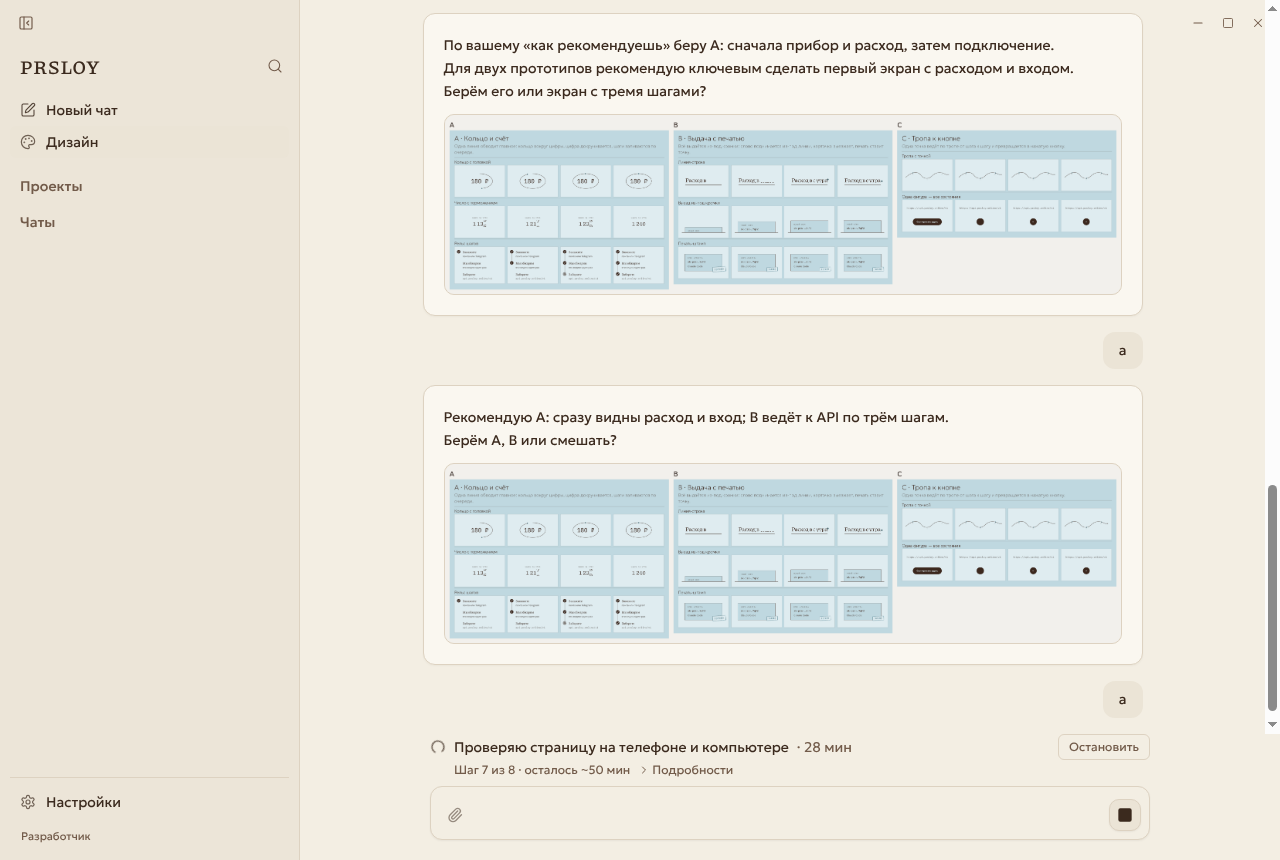
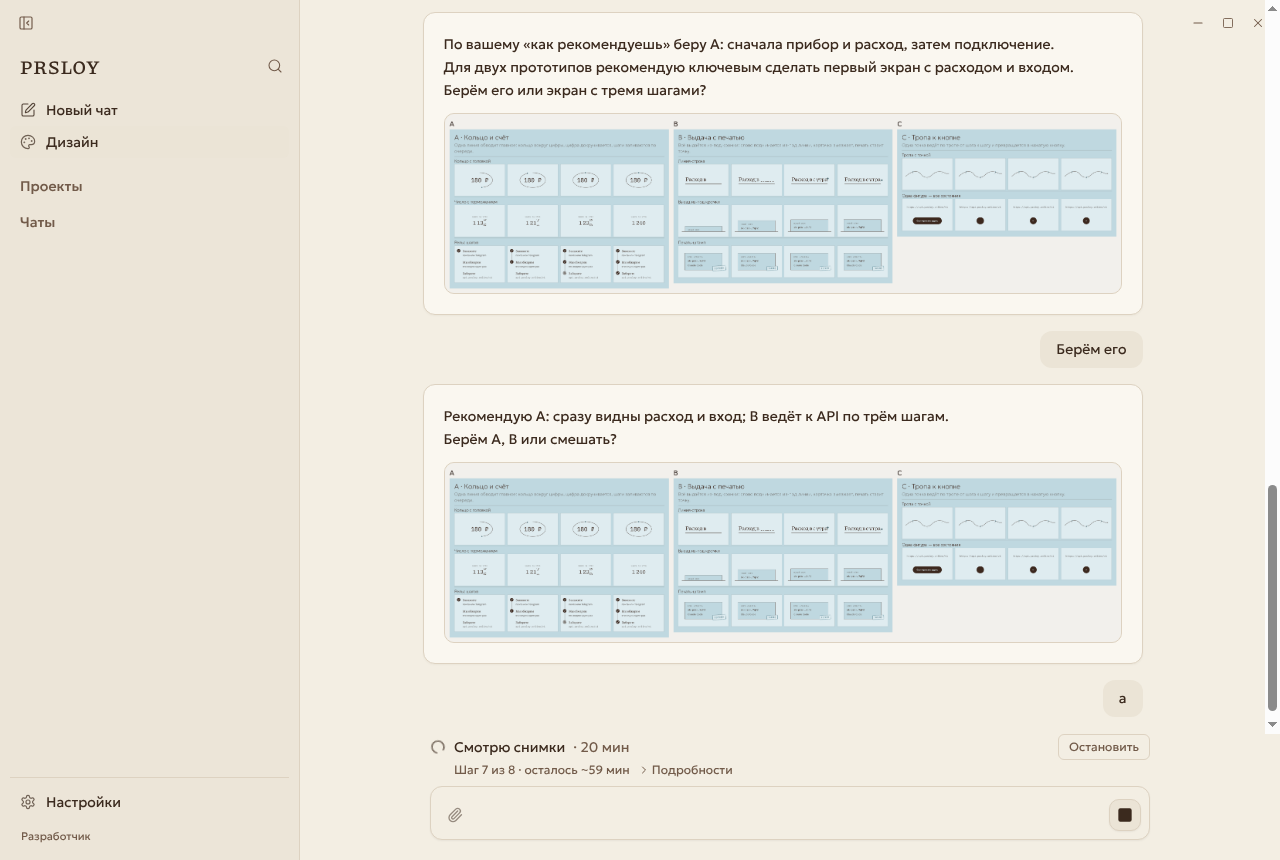
desktop/ui: run.py's answer options and action words in «Дизайн»; word keys sent whole
- Word options («Да», «Берём его», «Смешать») show one label and send their key as is;
  lettered options drop the letter repeated in the label.
- main: option keys were cut to 8 characters («Берём его» went out as «Берём ег»); now 80.
- Replay recomputes options and doing with run.py's own options_of / doing_of.

Claude-Session: https://claude.ai/code/session_01T1MXX92ZtwWirroZLYeuiB

diff --git a/app/apps/desktop/e2e/design-replay.spec.ts b/app/apps/desktop/e2e/design-replay.spec.ts
@@ -45,6 +45,8 @@ async function launch(replay: Replay = {}): Promise<Launched> {
   const harness = join(bundle, "playbooks", "site", "harness");
   mkdirSync(harness, { recursive: true });
   copyFileSync(join(FIXTURE, "replay_run.py"), join(harness, "run.py"));
+  // the real run.py, for its options_of / doing_of (the fixture predates both)
+  copyFileSync(join(HARNESS, "run.py"), join(harness, "real_run.py"));
   // main passes run.py an allowlisted env, so the replay reads its settings from a file
   writeFileSync(join(harness, "replay.json"), JSON.stringify(replay));
   cpSync(join(FIXTURE, "fixtures"), join(harness, "fixtures"), { recursive: true });
@@ -123,15 +125,27 @@ test("the real run, turn by turn, as the owner sees it", async () => {
     for (const [i, answer] of ANSWERS.entries()) {
       const turn = i + 1;
       const owners = await page.getByTestId("design-owner").count();
-      await say(page, answer);
+      if (turn === 6) {
+        // run.py's word option: the button sends its key as the answer, nothing else
+        await page
+          .getByTestId("design-owner")
+          .last()
+          .getByRole("button", { name: /^Берём его/u })
+          .click();
+        await expect(page.getByTestId("design-user").last()).toHaveText("Берём его");
+      } else {
+        await say(page, answer);
+      }
       await expect(page.getByTestId("design-progress")).toBeVisible({ timeout: 30_000 });
       if (turn === 7) {
         // The long step: 80 minutes, 321 tool calls. One plain line, the step and time left;
         // the raw calls only under «Подробности».
         const step = page.getByTestId("design-progress-step");
-        await expect(step).toHaveText("Проверяю страницу на телефоне и компьютере", {
+        await expect(page.getByTestId("design-progress-meta")).toContainText("Шаг 7 из 8", {
           timeout: 120_000,
         });
+        // run.py's own words for the action, or the step's: plain Russian, never a command
+        await expect(step).toHaveText(/^[А-ЯЁ][а-яё]+/u);
         await page.waitForTimeout(SHOTS ? 20_000 : 2_000);
         const meta = page.getByTestId("design-progress-meta");
         await expect(meta).toContainText("Шаг 7 из 8");
@@ -155,6 +169,14 @@ test("the real run, turn by turn, as the owner sees it", async () => {
         await expect(page.getByTestId("design-owner")).toHaveCount(owners + 1, {
           timeout: 300_000,
         });
+      }
+      if (turn === 3) {
+        // «Всё верно, можно дальше?» comes with run.py's own answer buttons
+        const card = page.getByTestId("design-owner").last();
+        await expect(card.getByTestId("design-option-да")).toContainText("Да");
+        await expect(card.getByTestId("design-option-да")).toContainText("рекомендую");
+        await expect(card.getByTestId("design-option-нет")).toHaveText("Нет, поправить");
+        await expect(card.getByTestId("design-recommend")).toBeVisible();
       }
       await shot(page, `replay-turn${turn}-done`);
     }

diff --git a/app/apps/desktop/src/renderer/lib/design-state.ts b/app/apps/desktop/src/renderer/lib/design-state.ts
@@ -273,9 +273,22 @@ export function ownerText(text: string, files: DesignFile[], groups: DesignOptio
 /** The engine's «как рекомендуешь»: closes every open choice with the agent's recommendation. */
 export const RECOMMEND_ANSWER = "как рекомендуешь";
 
+/** A lettered option (Latin A–D or Cyrillic А–Г); run.py's word options («да», «смешать») are not. */
+export function isLetterKey(key: string): boolean {
+  return /^[A-DА-Г]$/u.test(key);
+}
+
+/** An option's label without the letter it repeats («A — прибор и три шага» → «прибор и три шага»). */
+export function optionLabel(option: { key: string; label: string }): string {
+  if (!isLetterKey(option.key)) return option.label;
+  const rest = option.label.replace(new RegExp(`^${option.key}\\s*(?:[—–:.)-]\\s*)?`, "u"), "");
+  return rest.trim();
+}
+
 /**
- * Owner's answer to a card. One question → the picked letter with its label; several →
- * "1А 2Б 3А" (run.py reads both). Undefined until every question has a pick.
+ * Owner's answer to a card. One question → the picked letter with its label, or a word option's
+ * own key («да», «экран с тремя шагами»: run.py reads it as is); several → "1А 2Б 3А".
+ * Undefined until every question has a pick.
  */
 export function answerText(
   groups: DesignOptionGroup[],
@@ -284,7 +297,9 @@ export function answerText(
   if (groups.length === 0 || groups.some((_, i) => !picks[i])) return undefined;
   if (groups.length === 1) {
     const key = picks[0]!;
-    const label = groups[0]!.options.find((o) => o.key === key)?.label;
+    if (!isLetterKey(key)) return key;
+    const option = groups[0]!.options.find((o) => o.key === key);
+    const label = option ? optionLabel(option) : "";
     return label ? `${key}. ${label}` : key;
   }
   return groups.map((_, i) => `${i + 1}${picks[i]}`).join(" ");

diff --git a/app/apps/desktop/src/renderer/lib/design-state.test.ts b/app/apps/desktop/src/renderer/lib/design-state.test.ts
@@ -7,6 +7,8 @@ import {
   EMPTY_DESIGN_VIEW,
   elapsedMinutes,
   harnessNow,
+  isLetterKey,
+  optionLabel,
   foldDesign,
   openQuestion,
   ownerText,
@@ -285,5 +287,29 @@ describe("tickerLine", () => {
     expect(tickerLine("bash", "cd /w && python3 -I design-pipeline/tools/gate.py --url x")).toBe(
       "bash gate.py --url x",
     );
+  });
+});
+
+describe("run.py's word options", () => {
+  const opt = (key: string, label: string, recommended = false) => ({ key, label, recommended });
+
+  it("sends a word option's key as is, a letter with its label", () => {
+    const yesNo = [{ q: "", options: [opt("да", "Да", true), opt("нет", "Нет, поправить")] }];
+    expect(answerText(yesNo, { 0: "да" })).toBe("да");
+    const screen = [{ q: "", options: [opt("экран с тремя шагами", "Экран с тремя шагами")] }];
+    expect(answerText(screen, { 0: "экран с тремя шагами" })).toBe("экран с тремя шагами");
+    const abc = [{ q: "", options: [opt("A", "A — прибор и три шага", true), opt("B", "B")] }];
+    expect(answerText(abc, { 0: "A" })).toBe("A. прибор и три шага");
+    expect(answerText(abc, { 0: "B" })).toBe("B");
+  });
+
+  it("does not repeat the letter in a label, keeps word labels whole", () => {
+    expect(optionLabel(opt("A", "A — прибор и три шага"))).toBe("прибор и три шага");
+    expect(optionLabel(opt("B", "B"))).toBe("");
+    expect(optionLabel(opt("А", "Разработчики и команды"))).toBe("Разработчики и команды");
+    expect(optionLabel(opt("смешать", "Смешать"))).toBe("Смешать");
+    expect(isLetterKey("A")).toBe(true);
+    expect(isLetterKey("Б")).toBe(true);
+    expect(isLetterKey("да")).toBe(false);
   });
 });

diff --git a/app/apps/desktop/src/main/design/events.test.ts b/app/apps/desktop/src/main/design/events.test.ts
@@ -146,3 +146,29 @@ describe("fileKind", () => {
     expect(fileKind("notes.md")).toBe("other");
   });
 });
+
+describe("run.py word options", () => {
+  it("keeps a word key whole: the button sends it back as the answer", () => {
+    const ev = parseHarnessLine(
+      JSON.stringify({
+        ev: "owner",
+        text: "Берём его или экран с тремя шагами?",
+        files: [],
+        options: [
+          {
+            q: "",
+            options: [
+              { key: "Берём его", label: "Берём его", recommended: true },
+              { key: "экран с тремя шагами", label: "Экран с тремя шагами" },
+            ],
+          },
+        ],
+      }),
+      () => undefined,
+    );
+    expect(ev && ev.ev === "owner" ? ev.options[0]?.options.map((o) => o.key) : []).toEqual([
+      "Берём его",
+      "экран с тремя шагами",
+    ]);
+  });
+});

diff --git a/app/apps/desktop/src/main/design/events.ts b/app/apps/desktop/src/main/design/events.ts
@@ -12,6 +12,7 @@ import type {
 
 const MAX_TEXT = 4000;
 const MAX_SHORT = 200;
+const MAX_KEY = 80;
 const MAX_FILES = 12;
 const MAX_OPTIONS = 8;
 const MAX_GROUPS = 3;
@@ -43,7 +44,8 @@ function str(value: unknown, max: number): string {
 function option(item: unknown): DesignOption | undefined {
   if (!item || typeof item !== "object") return undefined;
   const rec = item as Record<string, unknown>;
-  const key = str(rec.key, 8).trim();
+  // a letter, or run.py's word key sent back as the answer («да», «экран с тремя шагами»)
+  const key = str(rec.key, MAX_KEY).trim();
   const label = str(rec.label, MAX_SHORT).trim();
   if (!key || !label) return undefined;
   if (rec.recommended !== true) return { key, label };

diff --git a/app/apps/desktop/src/renderer/components/design/DesignPage.tsx b/app/apps/desktop/src/renderer/components/design/DesignPage.tsx
@@ -32,6 +32,8 @@ import {
   EMPTY_DESIGN_VIEW,
   foldDesign,
   harnessNow,
+  isLetterKey,
+  optionLabel,
   openQuestion,
   ownerText,
   RECOMMEND_ANSWER,
@@ -585,8 +587,8 @@ function OwnerChoices({
                     else setPicks(next);
                   }}
                 >
-                  <span className="font-semibold">{o.key}</span>
-                  <span>{o.label}</span>
+                  {isLetterKey(o.key) ? <span className="font-semibold">{o.key}</span> : null}
+                  {optionLabel(o) ? <span>{optionLabel(o)}</span> : null}
                   {o.recommended ? (
                     <span className="text-xs opacity-60">{tr("design.recommended")}</span>
                   ) : null}

diff --git a/app/apps/desktop/e2e/design/replay_run.py b/app/apps/desktop/e2e/design/replay_run.py
@@ -10,6 +10,9 @@ Settings come from replay.json next to this file (main passes run.py an allowlis
   turnEnd   N: a turn stops after N events and waits to be cancelled (a turn in progress)
   silence   true: the events of a stopped turn are 4 minutes old (a long silence)
 Pictures the messages point to are replaced by fixtures/design/landing/01-candidates.png.
+The fixture was recorded before run.py gave every question its `options` and every tool call its
+`doing`: when the real run.py sits next to this file as real_run.py, both are recomputed with its
+own options_of / doing_of, so the app sees what run.py sends today.
 """
 import argparse, json, os, shutil, sys, time
 from pathlib import Path
@@ -20,6 +23,31 @@ PLACEHOLDER = HERE / "fixtures" / "design" / "landing" / "01-candidates.png"
 RECORDED_WS = "/home/user/ab/run/сайт"
 CONFIG = json.loads((HERE / "replay.json").read_text(encoding="utf-8")) if (HERE / "replay.json").exists() else {}
 SPEED = float(CONFIG.get("speed", 120))
+
+
+def load_run_py():
+    path = HERE / "real_run.py"
+    if not path.exists():
+        return None
+    import importlib.util
+    spec = importlib.util.spec_from_file_location("real_run", path)
+    mod = importlib.util.module_from_spec(spec)
+    spec.loader.exec_module(mod)
+    return mod
+
+
+RUN_PY = load_run_py()
+
+
+def today(ev):
+    """What run.py emits for this event now: options for questions, doing for tool calls."""
+    if RUN_PY is None:
+        return ev
+    if ev.get("ev") == "owner":
+        ev["options"] = RUN_PY.options_of(ev.get("text", ""))
+    elif ev.get("ev") == "tool" and "doing" not in ev:
+        ev["doing"] = RUN_PY.doing_of(ev.get("name"), ev.get("brief", ""))
+    return ev
 
 
 def state_dir(ws):
@@ -72,7 +100,7 @@ def say(a):
     for n, ev in enumerate(events, 1):
         time.sleep(max(0.0, min(ev["t"] - prev, 600)) / SPEED)
         prev = ev["t"]
-        ev = relocate(ev, ws)
+        ev = today(relocate(ev, ws))
         ev["t"] = start + (ev["t"] - t0)
         print(json.dumps(ev, ensure_ascii=False), flush=True)
         if stop_after and n >= stop_after:
